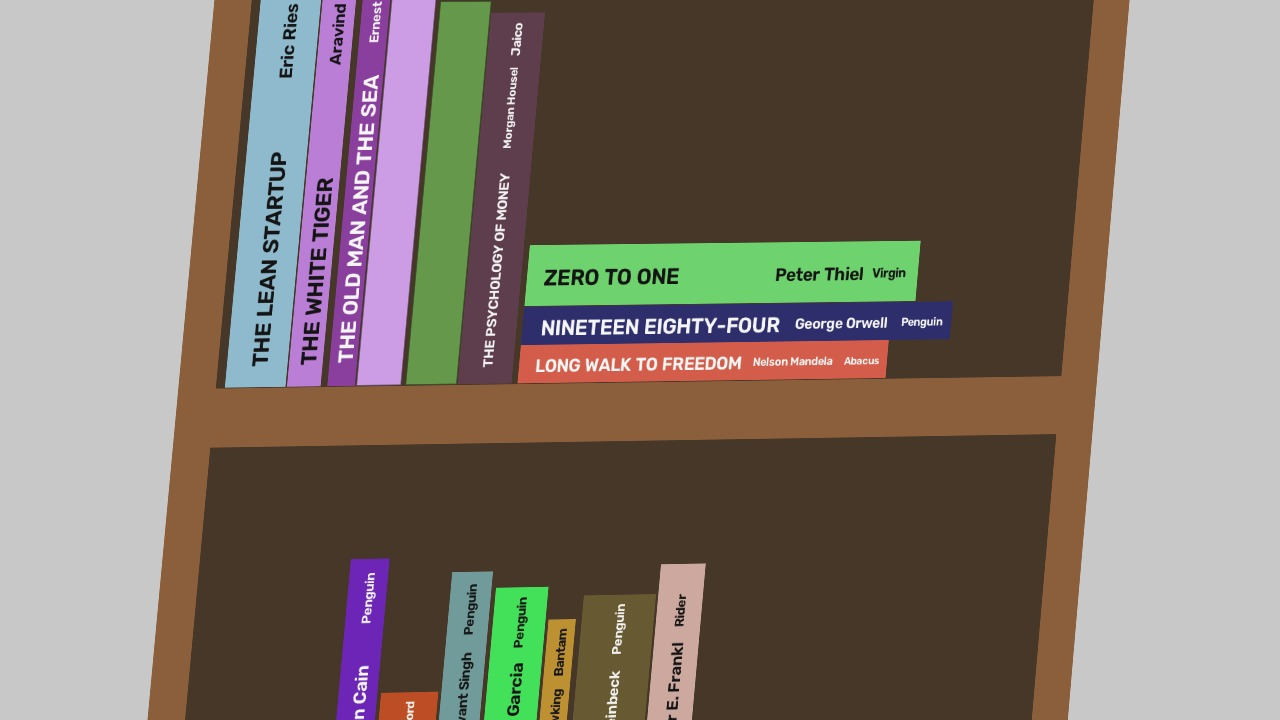
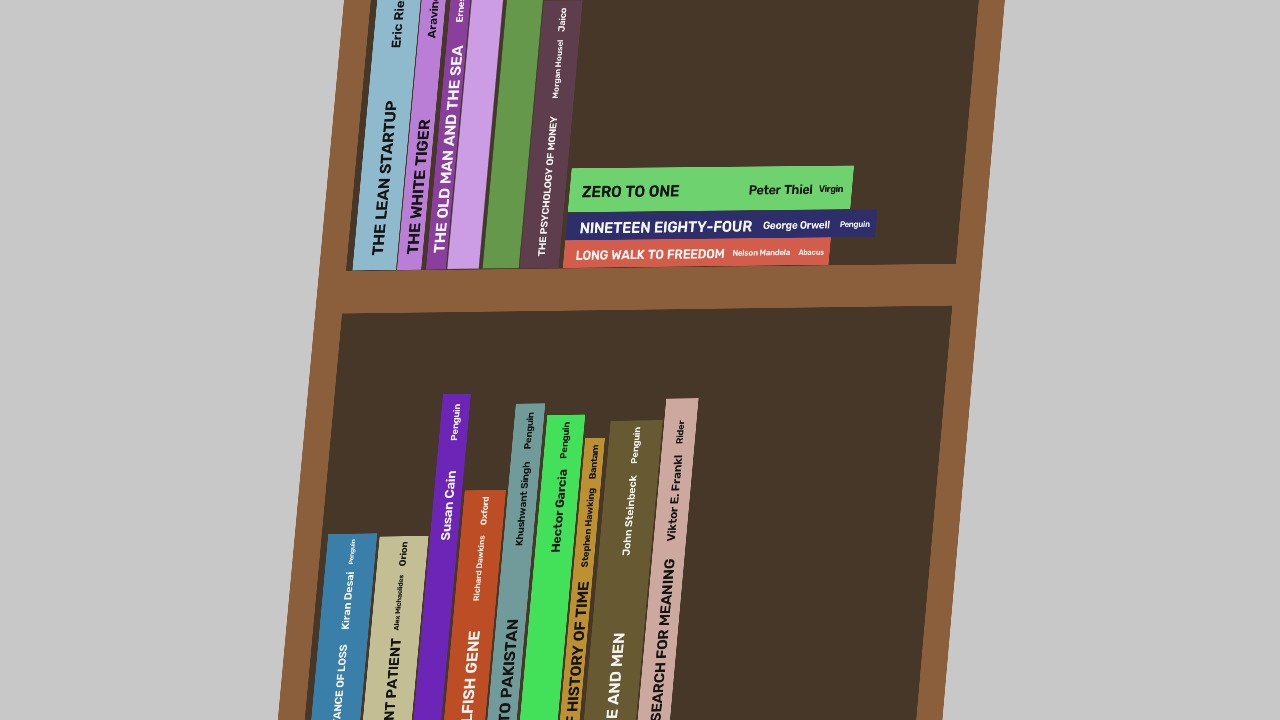
Resilient outbound lookups (retry, then flag the line instead of losing the packet); wider, realistic synthetic framing

diff --git a/library_claim/stages/pricing.py b/library_claim/stages/pricing.py
@@ -24,6 +24,8 @@ from pathlib import Path
 import httpx
 from rapidfuzz import fuzz
 
+from .. import net
+
 from ..config import Locale
 from ..schemas import Price
 
@@ -162,6 +164,7 @@ class PriceClient:
         self.budget_exhausted = False
         self.raw: list[dict] = []  # every search used for this packet, with its response
         self.live_searches = 0
+        self.failed_searches = 0
         self._fx: dict[tuple[str, str], FxRate] = {}
 
     def _cache_path(self, params: dict) -> Path | None:
@@ -183,9 +186,14 @@ class PriceClient:
         if self.max_live_searches is not None and self.live_searches >= self.max_live_searches:
             self.budget_exhausted = True
             return {}, ""
-        response = await self.http.get(SERPAPI, params={**params, "api_key": self.serpapi_key})
+        response = await net.get(self.http, SERPAPI, params={**params, "api_key": self.serpapi_key}, timeout=45)
         self.live_searches += 1
         retrieved_at = now()
+        if response is None:
+            # Kept failing (timeouts): the line goes unpriced and is flagged, the packet still builds.
+            self.failed_searches += 1
+            self.raw.append({"params": params, "retrieved_at": retrieved_at, "status": "failed", "response": {}})
+            return {}, ""
         payload = response.json() if response.status_code == 200 else {"error": response.text[:200]}
         entry = {"params": params, "retrieved_at": retrieved_at, "status": response.status_code, "response": payload}
         self.raw.append(entry)
@@ -210,8 +218,8 @@ class PriceClient:
 
     async def fx(self, base: str, quote: str) -> FxRate | None:
         if (base, quote) not in self._fx:
-            response = await self.http.get(FX_API, params={"from": base, "to": quote})
-            if response.status_code != 200:
+            response = await net.get(self.http, FX_API, params={"from": base, "to": quote})
+            if response is None or response.status_code != 200:
                 return None
             payload = response.json()
             self._fx[(base, quote)] = FxRate(float(payload["rates"][quote]), payload["date"])
@@ -258,6 +266,7 @@ async def price_book(
 
     query = f"{isbn}" if isbn else f"{title} {author} book"
     retrieved_at = now()
+    failed_before = getattr(client, "failed_searches", 0)
     listings = [l for l in await client.shopping(query, locale) if relevant(l.title, title, author)]
     new = pick(listings, "new")
     used = pick(listings, "used")
@@ -273,7 +282,9 @@ async def price_book(
             if converted:
                 used_value = converted
                 out_notes.append(f"used value converted from {fallback.country} eBay listings")
-    if replacement.amount is None and getattr(client, "budget_exhausted", False):
+    if replacement.amount is None and getattr(client, "failed_searches", 0) > failed_before:
+        out_notes.append("not priced: the price search failed (network); retry before settling")
+    elif replacement.amount is None and getattr(client, "budget_exhausted", False):
         out_notes.append("not priced: price-search budget for this run was used up")
     elif replacement.amount is None:
         out_notes.append("no new listing found in local market")

diff --git a/library_claim/stages/identify.py b/library_claim/stages/identify.py
@@ -18,6 +18,8 @@ from dataclasses import dataclass, field
 import httpx
 from rapidfuzz import fuzz
 
+from .. import net
+
 GOOGLE_BOOKS = "https://www.googleapis.com/books/v1/volumes"
 OPEN_LIBRARY = "https://openlibrary.org/search.json"
 
@@ -161,14 +163,14 @@ async def fetch_candidates(
     if google_api_key:
         # Keyless access shares a global daily quota that is routinely exhausted (HTTP 429).
         params["key"] = google_api_key
-    google = await client.get(GOOGLE_BOOKS, params=params)
-    if google.status_code == 200:
+    google = await net.get(client, GOOGLE_BOOKS, params=params)
+    if google is not None and google.status_code == 200:
         candidates += _google_candidates(google.json())
     params = {"title": reading.title, "limit": 10, "fields": "key,title,subtitle,author_name,publisher,first_publish_year"}
     if reading.author:
         params["author"] = reading.author
-    library = await client.get(OPEN_LIBRARY, params=params)
-    if library.status_code == 200:
+    library = await net.get(client, OPEN_LIBRARY, params=params)
+    if library is not None and library.status_code == 200:
         candidates += _openlibrary_candidates(library.json())
     return candidates
 
@@ -239,11 +241,11 @@ def pin_edition(result: Identification, spine_publisher: str, editions: list[Edi
 
 async def fetch_editions(work_url: str, client: httpx.AsyncClient) -> list[Edition]:
     """All editions of an Open Library work (publisher, ISBN-13, year, language)."""
-    response = await client.get(
-        f"{work_url}/editions.json",
+    response = await net.get(
+        client, f"{work_url}/editions.json",
         params={"limit": 1000, "fields": "key,publishers,isbn_13,publish_date,languages"},
     )
-    if response.status_code != 200:
+    if response is None or response.status_code != 200:
         return []
     editions = []
     for entry in response.json().get("entries", []):

diff --git a/dev_data/synthetic.py b/dev_data/synthetic.py
@@ -163,21 +163,22 @@ def build_unit(name, books, rng, width_cm=50, shelf_heights=(34, 34, 34, 30)):
 
 
 def pan_frames(faces, out_dir, rng, size=(1280, 720)):
-    """A handheld pan down each unit, framed like a phone held ~60 cm from a narrow bookcase.
+    """A handheld pan down each unit, framed like a phone held ~70 cm from a narrow bookcase.
 
-    Each view is 1.3x the unit's width (65 cm for a 50 cm unit), so a whole shelf
-    row fits in one frame, as in a real sweep. Consecutive views overlap ~60%
-    vertically (a 0.7 s keyframe interval at a slow downward pan).
+    Each view is 1.8x the unit's width (90 x 50 cm for a 50 cm unit), so whole
+    shelf rows (34 cm) fit inside frames, as in a real sweep. Consecutive views
+    overlap ~70% vertically (a 0.7 s keyframe interval at a slow downward pan),
+    which puts every row wholly inside at least one frame.
     """
     out_dir.mkdir(parents=True, exist_ok=True)
     w, h = size
     index = 0
     for face in faces:
         fh, fw = face.shape[:2]
-        view_w = int(fw * 1.3)
+        view_w = int(fw * 1.8)
         view_h = int(view_w * h / w)
         left = (fw - view_w) / 2
-        for top in np.arange(-view_h * 0.1, fh - view_h * 0.9, view_h * 0.4):
+        for top in np.arange(-view_h * 0.1, fh - view_h * 0.9, view_h * 0.3):
             jitter = rng.uniform(-0.03, 0.03, 8).reshape(4, 2) * [view_w, view_h]
             src = np.float32([[left, top], [left + view_w, top], [left + view_w, top + view_h], [left, top + view_h]]) + jitter.astype(np.float32)
             tilt = rng.uniform(-0.05, 0.05) * w

diff --git a/library_claim/net.py b/library_claim/net.py
@@ -1,0 +1,34 @@
+"""Outbound HTTP for the post-sweep stages: retry transient failures, never crash the packet.
+
+One slow price search or catalog lookup must not lose a sweep. Each call is
+retried with backoff on timeouts, connection errors, 429 and 5xx; if it still
+fails, the caller gets None and records that the lookup failed, so the line
+goes to the review queue instead of the packet being lost.
+"""
+
+from __future__ import annotations
+
+import asyncio
+import logging
+
+import httpx
+
+logger = logging.getLogger("library_claim.net")
+
+RETRIES = 3
+TRANSIENT_STATUS = {429, 500, 502, 503, 504}
+
+
+async def get(client: httpx.AsyncClient, url: str, *, params: dict | None = None, timeout: float = 30.0) -> httpx.Response | None:
+    """GET with retries. Returns the response (any status), or None if the call kept failing."""
+    for attempt in range(RETRIES + 1):
+        try:
+            response = await client.get(url, params=params, timeout=timeout)
+            if response.status_code not in TRANSIENT_STATUS or attempt == RETRIES:
+                return response
+        except (httpx.TimeoutException, httpx.TransportError) as exc:
+            if attempt == RETRIES:
+                logger.warning("GET %s failed after %d attempts: %s", url, attempt + 1, type(exc).__name__)
+                return None
+        await asyncio.sleep(min(8.0, 1.5 * 2**attempt))
+    return None

diff --git a/tests/test_pricing.py b/tests/test_pricing.py
@@ -144,3 +144,27 @@ async def test_cached_search_keeps_its_original_date(tmp_path):
     assert calls == ["Sapiens Harari book"]  # the second run used the cache
     assert a[0].retrieved_at == b[0].retrieved_at != ""
     assert first.live_searches == 1 and second.live_searches == 0
+
+
+async def test_a_search_that_keeps_timing_out_leaves_the_line_unpriced(tmp_path, monkeypatch):
+    import httpx
+
+    from library_claim import net
+    from library_claim.stages.pricing import PriceClient
+
+    monkeypatch.setattr(net.asyncio, "sleep", _no_sleep)
+    attempts = []
+
+    def handler(request):
+        attempts.append(1)
+        raise httpx.ReadTimeout("slow", request=request)
+
+    async with httpx.AsyncClient(transport=httpx.MockTransport(handler)) as http:
+        client = PriceClient(http, "key", cache_dir=tmp_path)
+        listings = await client.shopping("Sapiens Harari book", IN)
+    assert listings == [] and client.failed_searches == 1
+    assert len(attempts) == net.RETRIES + 1  # retried before giving up
+
+
+async def _no_sleep(_):
+    return None

diff --git a/library_claim/stages/item_pricing.py b/library_claim/stages/item_pricing.py
@@ -69,8 +69,11 @@ async def price_item(
     query = " ".join(part for part in (material, description or category) if part)
     if is_artwork:
         query += " print"
+    failed_before = getattr(client, "failed_searches", 0)
     listings = _trim_outliers([l for l in await client.shopping(query, locale) if l.condition == "new"])
     if not listings:
+        if getattr(client, "failed_searches", 0) > failed_before:
+            return ItemPricing("range", PriceRange(), [f"price search for '{query}' failed (network); retry before settling"])
         return ItemPricing("range", PriceRange(), [f"no listings found for '{query}'"])
     basis = f"interquartile range of {len(listings)} new listing(s) for '{query}'"
     notes = ["brand/model not legible: priced as a market range"]
